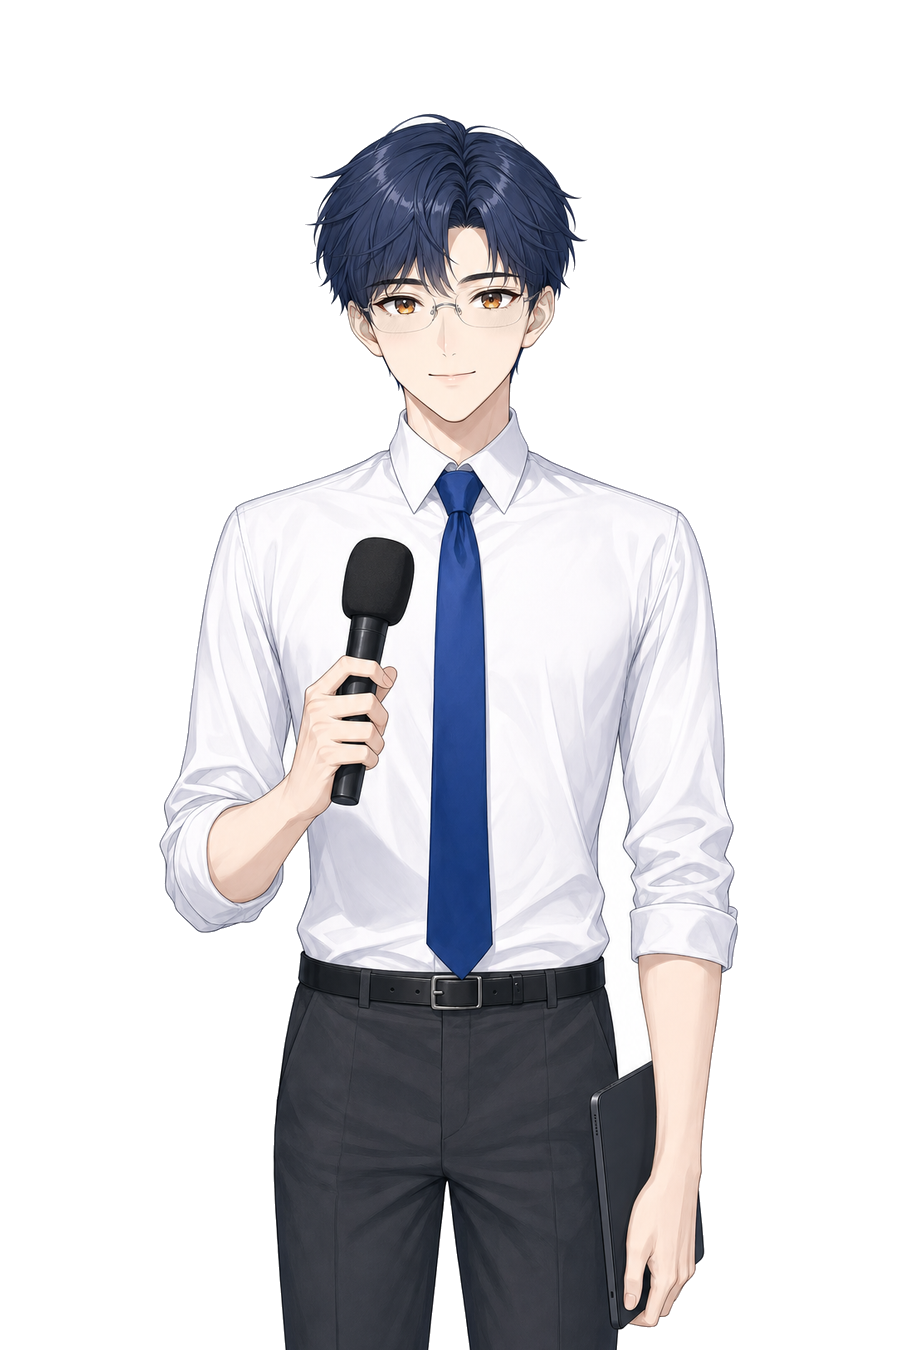
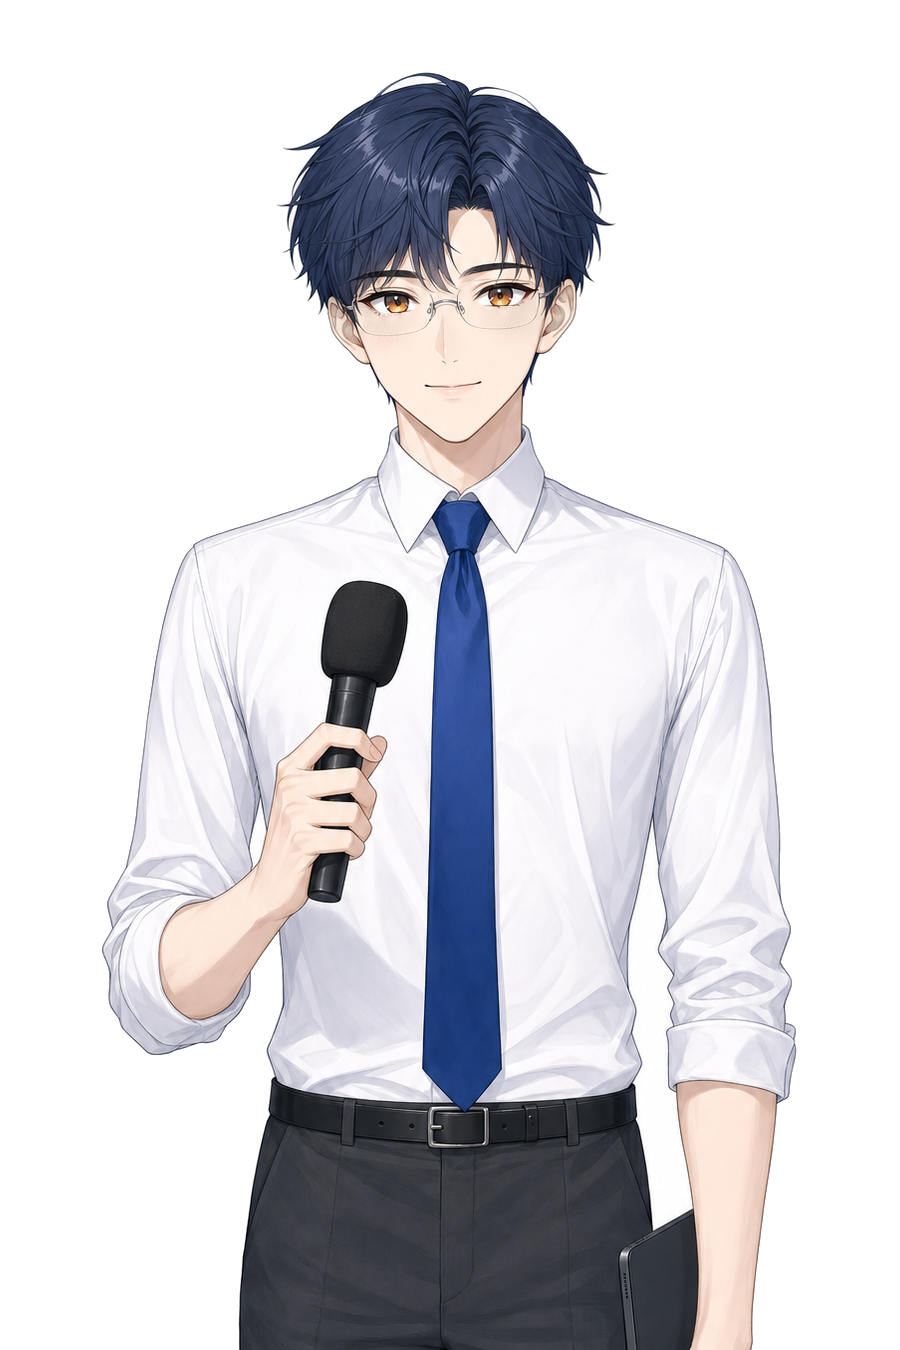
fix: 카이 스케일 보정 1.20 — 헤어 볼륨 차이로 작아 보이는 문제
얼굴 광대폭을 똑같이 맞췄는데도 카이가 다른 캐릭터보다 작아 보였다. 원인은 몸이
아니라 머리 위 여백이었다. 정수리 여백이 미아 1.8% / 레이 4.2% / 카이 8.4%로,
짧은 남성 헤어라 머리 덩어리가 작고 그만큼 위가 비어 인물이 뒤로 물러난 것처럼
읽힌다. 몸은 오히려 카이가 넓다(가슴~허리 폭 407~561 vs 405~482, 419~496).

여백을 스케일로 완전히 맞추는 건 포기했다. 미아 수준까지 줄이려면 44% 확대가
필요하고 그러면 얼굴폭이 32%가 되어 원근이 다른 인물처럼 보인다. 남성이라 키가
크다는 설정을 살려 1.20으로 올렸다.

보정값은 플래그가 아니라 도구의 SCALE_NUDGE 표에 출력 파일명 기준으로 넣었다.
플래그로 두면 다음에 파이프라인을 다시 돌릴 때 보정이 빠져 재현이 깨진다.

Changed region(s): [[0.0933, 0.0311, 0.9022, 1.0], [0.4667, 0.5289, 0.4978, 0.6222]]

diff --git a/CHARACTERS-REPORTERS-DRAFT.md b/CHARACTERS-REPORTERS-DRAFT.md
@@ -191,6 +191,24 @@ codex는 **참조 없이 그냥 생성해버린다** — 지시가 무시된 것
 `FACE_W=0.225`는 두 인물 모두 허벅지 크롭이 하단을 넘겨 채우는 값이고,
 `CHEEK_Y=0.235`는 머리가 가장 높은 미아도 정수리가 잘리지 않는 값이다.
 
+### 캐릭터별 스케일 보정 (`SCALE_NUDGE`)
+
+얼굴 크기를 똑같이 맞춰도 **헤어 볼륨이 작은 캐릭터는 작아 보인다.** 머리 위 여백이 커져서
+인물이 뒤로 물러난 것처럼 읽힌다. 실측 정수리 여백은 미아 1.8% / 레이 4.2% / **카이 8.4%**였다
+(카이는 짧은 남성 헤어). **몸이 작은 게 아니다** — 가슴~허리 폭은 미아 405~482 / 레이 419~496 /
+카이 407~561로 카이가 오히려 넓다.
+
+여백을 스케일로 완전히 맞추려 하면 안 된다. 미아 수준(1.8%)까지 줄이려면 44% 확대가 필요하고
+그러면 얼굴폭이 32%가 되어 카메라에 더 가까이 선 인물처럼 보인다.
+
+| 캐릭터 | 보정 | 결과 |
+|---|---|---|
+| 미아·레이 | 1.00 | 광대폭 22.4% |
+| **카이** | **1.20** | 광대폭 26.8% / 정수리 여백 5.3% — 남성이라 키가 큰 설정이므로 이 정도 차이는 자연스럽다 |
+
+보정값은 도구의 `SCALE_NUDGE`에 **출력 파일명 기준으로** 등록돼 자동 적용된다
+(플래그를 매번 기억해야 하면 파이프라인 재현이 깨진다). `--scale-nudge`로 덮어쓸 수 있다.
+
 ### 파이프라인
 
 ```bash
